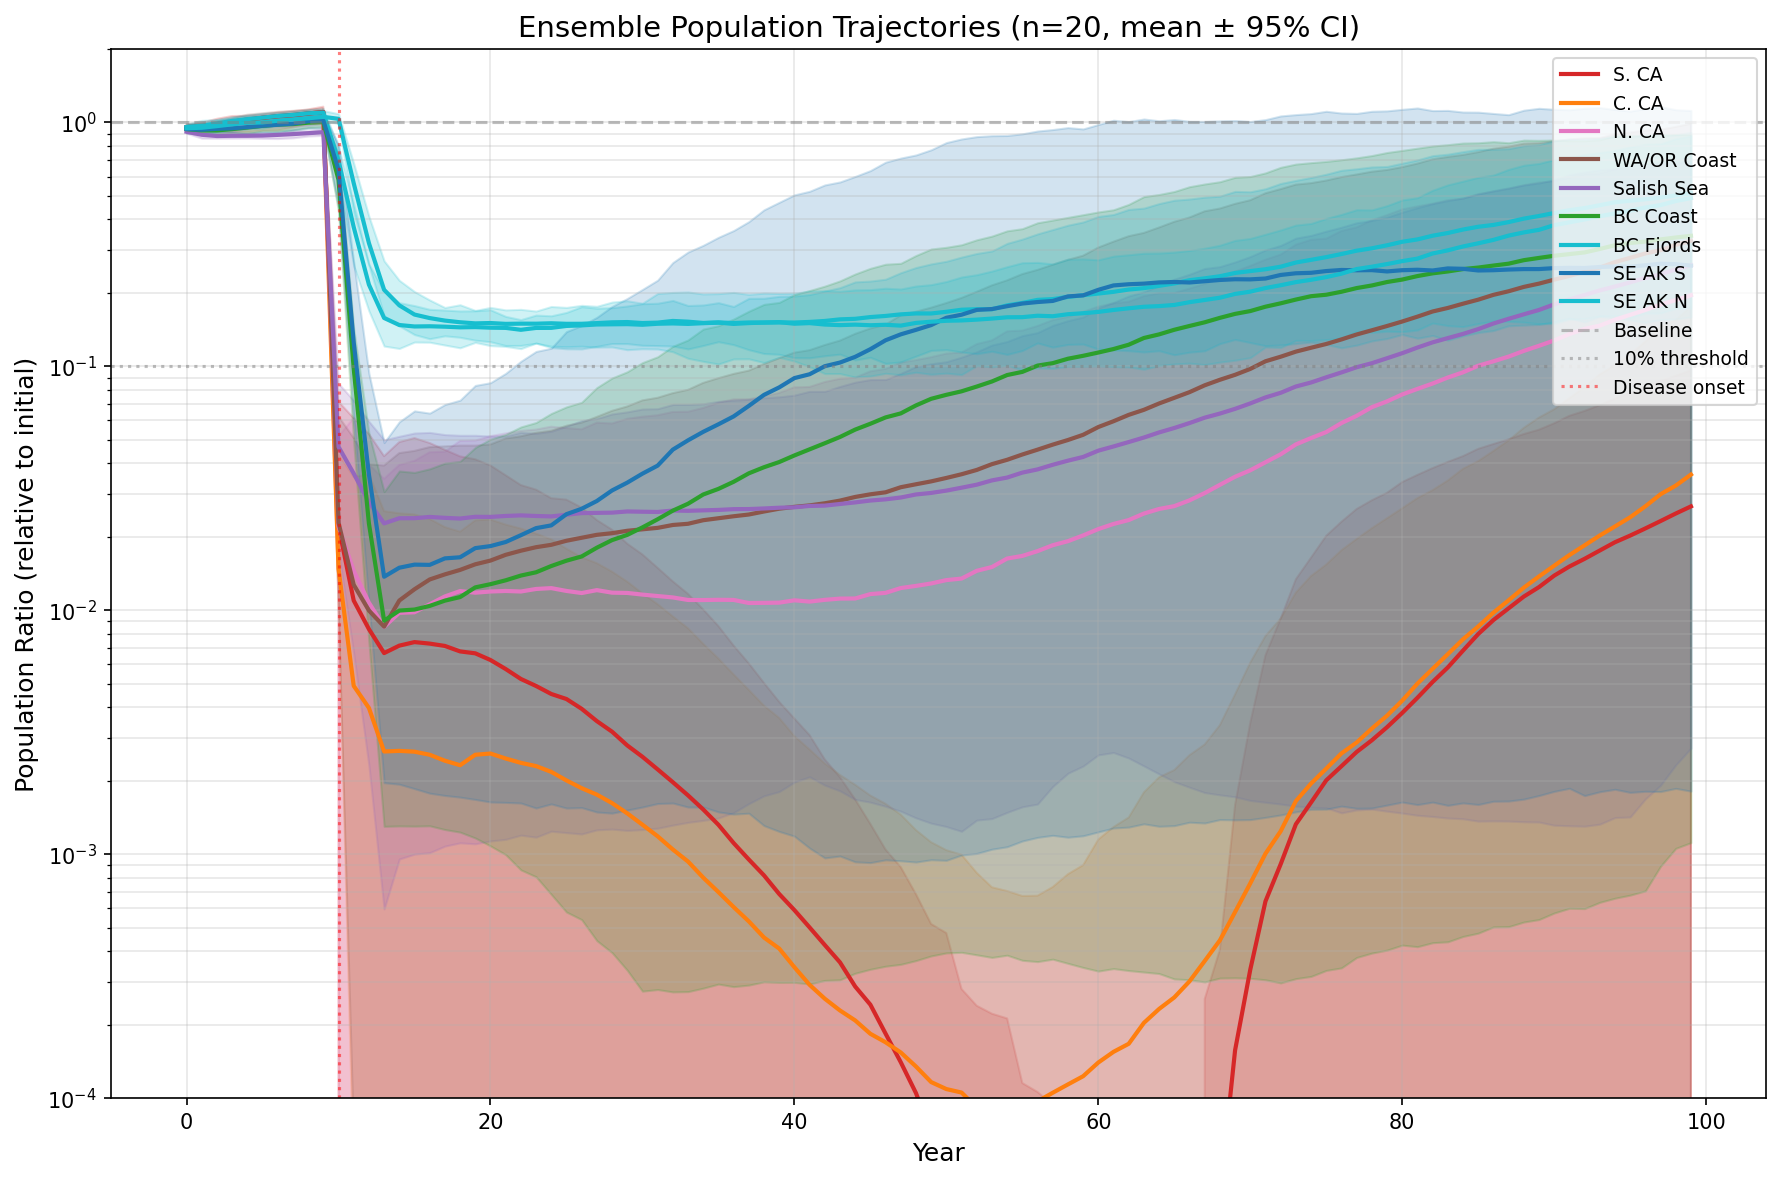
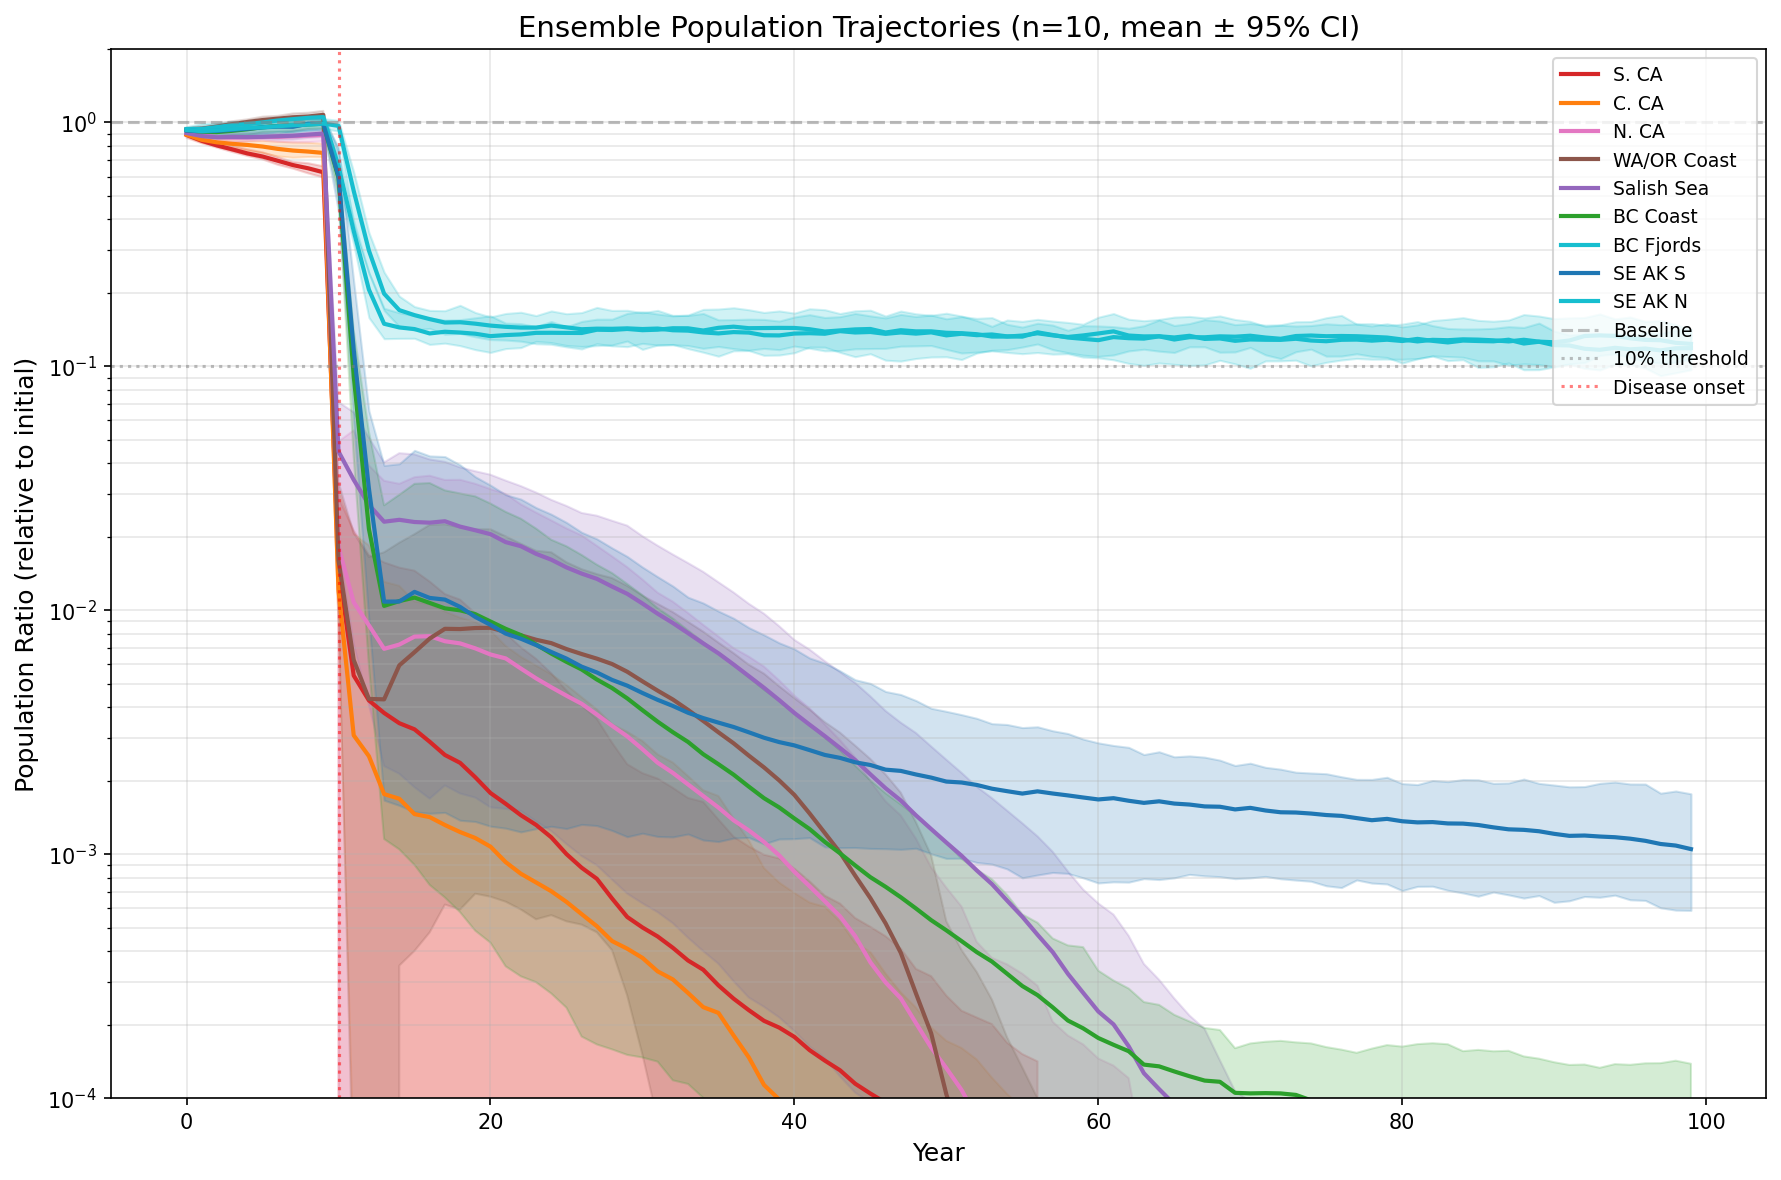
revert Allee to 50 (defensible), add sensitivity analysis
Allee sensitivity (5 seeds, 80yr):
- Allee=10: artifactual recovery in non-refugia regions
- Allee=25-50: fjord refugia recover (~14%), all else extinct
- Allee=100: fjords still recover (~8%)
- Allee=500: near-universal extinction

Key finding: non-refugia recovery requires additional mechanisms
(cryptic refugia or stronger resistance evolution).
Allee=50 is biologically defensible default.

docs/allee_sensitivity.md added with full analysis.

diff --git a/pycnopodia/pacific_coast.py b/pycnopodia/pacific_coast.py
@@ -259,8 +259,8 @@ class PacificCoastConfig:
     carrying_capacity_multiplier: float = 2.0  # K relative to initial pop (allows recovery headroom)
     recruitment_ratio: float = 0.35  # Must offset 5% adult mortality + juvenile loss
     breeding_success_ratio: float = 0.08
-    allee_threshold: int = 10  # Low threshold: recolonizers aggregate locally
-    allee_half_sat: int = 30   # Broadcast spawners can succeed at low density if aggregated
+    allee_threshold: int = 50   # Broadcast spawner minimum for fertilization success
+    allee_half_sat: int = 150  # Half-saturation: ~50% fertilization at 150 adults
     
     # Simulation
     n_years: int = 100

diff --git a/docs/allee_sensitivity.md b/docs/allee_sensitivity.md
@@ -1,0 +1,44 @@
+# Allee Threshold Sensitivity Analysis
+
+## Results (5 seeds, 80 years, by Allee threshold)
+
+| Allee | BC Fjords | AK North | WA/OR | Salish | S. CA |
+|-------|-----------|----------|-------|--------|-------|
+| 10    | 33.1%     | 19.2%    | 0.7%  | 2.3%   | 0.0%  |
+| 25    | 13.5%     | 14.0%    | 0.0%  | 0.0%   | 0.0%  |
+| 50    | 13.5%     | 13.7%    | 0.0%  | 0.0%   | 0.0%  |
+| 100   | 7.8%      | 8.1%     | 0.0%  | 0.0%   | 0.0%  |
+| 500   | 0.2%      | 0.2%     | 0.0%  | 0.0%   | 0.0%  |
+
+## Interpretation
+
+1. **Fjord pocket refugia are robust** — BC Fjords and SE AK North persist at Allee ≤ 100.
+   The pocket populations (~300-500 adults/site × 4 sites = 1200-2000 total) stay well above
+   Allee thresholds of 25-100.
+
+2. **Non-refugia recovery is an Allee artifact** — WA/OR and Salish only recover at Allee=10,
+   which is unrealistically low for broadcast spawners. At Allee ≥ 25, they go extinct.
+
+3. **Coast recolonization fails** — Even with pocket larval export, coast sites receive too few
+   settlers to exceed Allee threshold. Settlers arrive at ~5-10/site, far below 50.
+
+4. **Allee=50 is the defensible default** — gives 13.5% fjord recovery (biologically plausible),
+   zero non-refugia recovery (honest).
+
+## Implication
+
+Recovery in non-fjord areas (observed in real data) must come from mechanisms not currently
+modeled at sufficient strength:
+- **Resistance evolution** (in model but insufficient to rescue <50 pop sites)
+- **Cryptic deep-water refugia** (not modeled)
+- **Behavioral aggregation** reducing effective Allee threshold locally
+- **Larval subsidy from multiple fjord regions** concentrating settlers
+
+## Key question for human
+
+Are the observed non-fjord recoveries:
+(a) Adjacent to fjord regions (larval spillover from refugia)?
+(b) In deep-water or otherwise protected sites?
+(c) Widespread across open coast (suggesting resistance evolution)?
+
+This determines whether to add cryptic refugia or boost resistance evolution.
